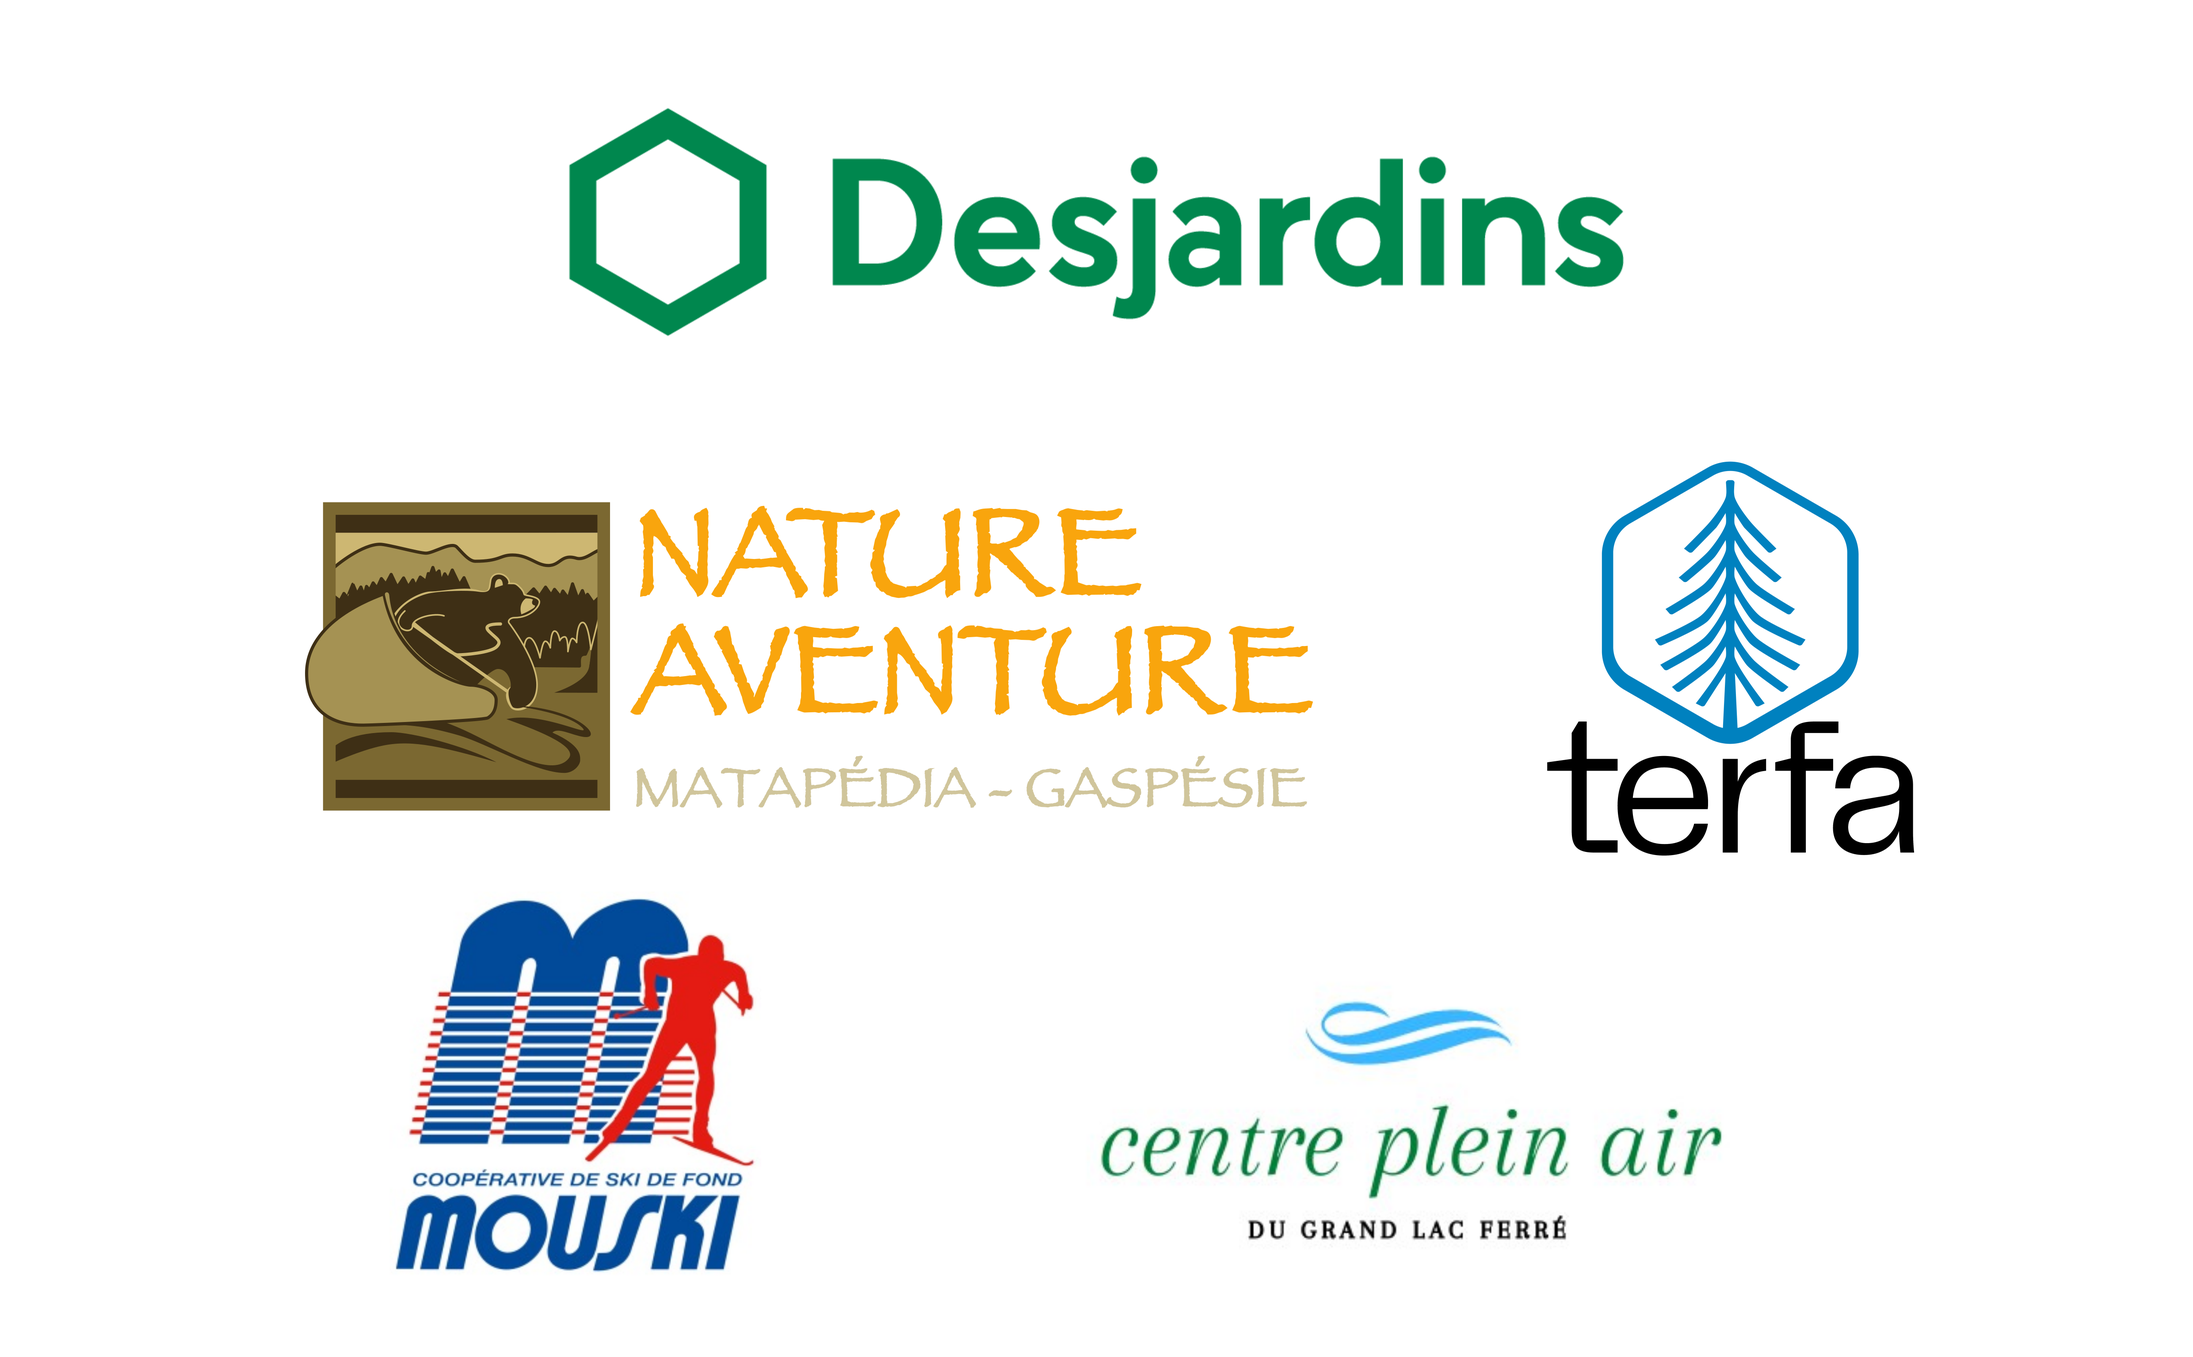
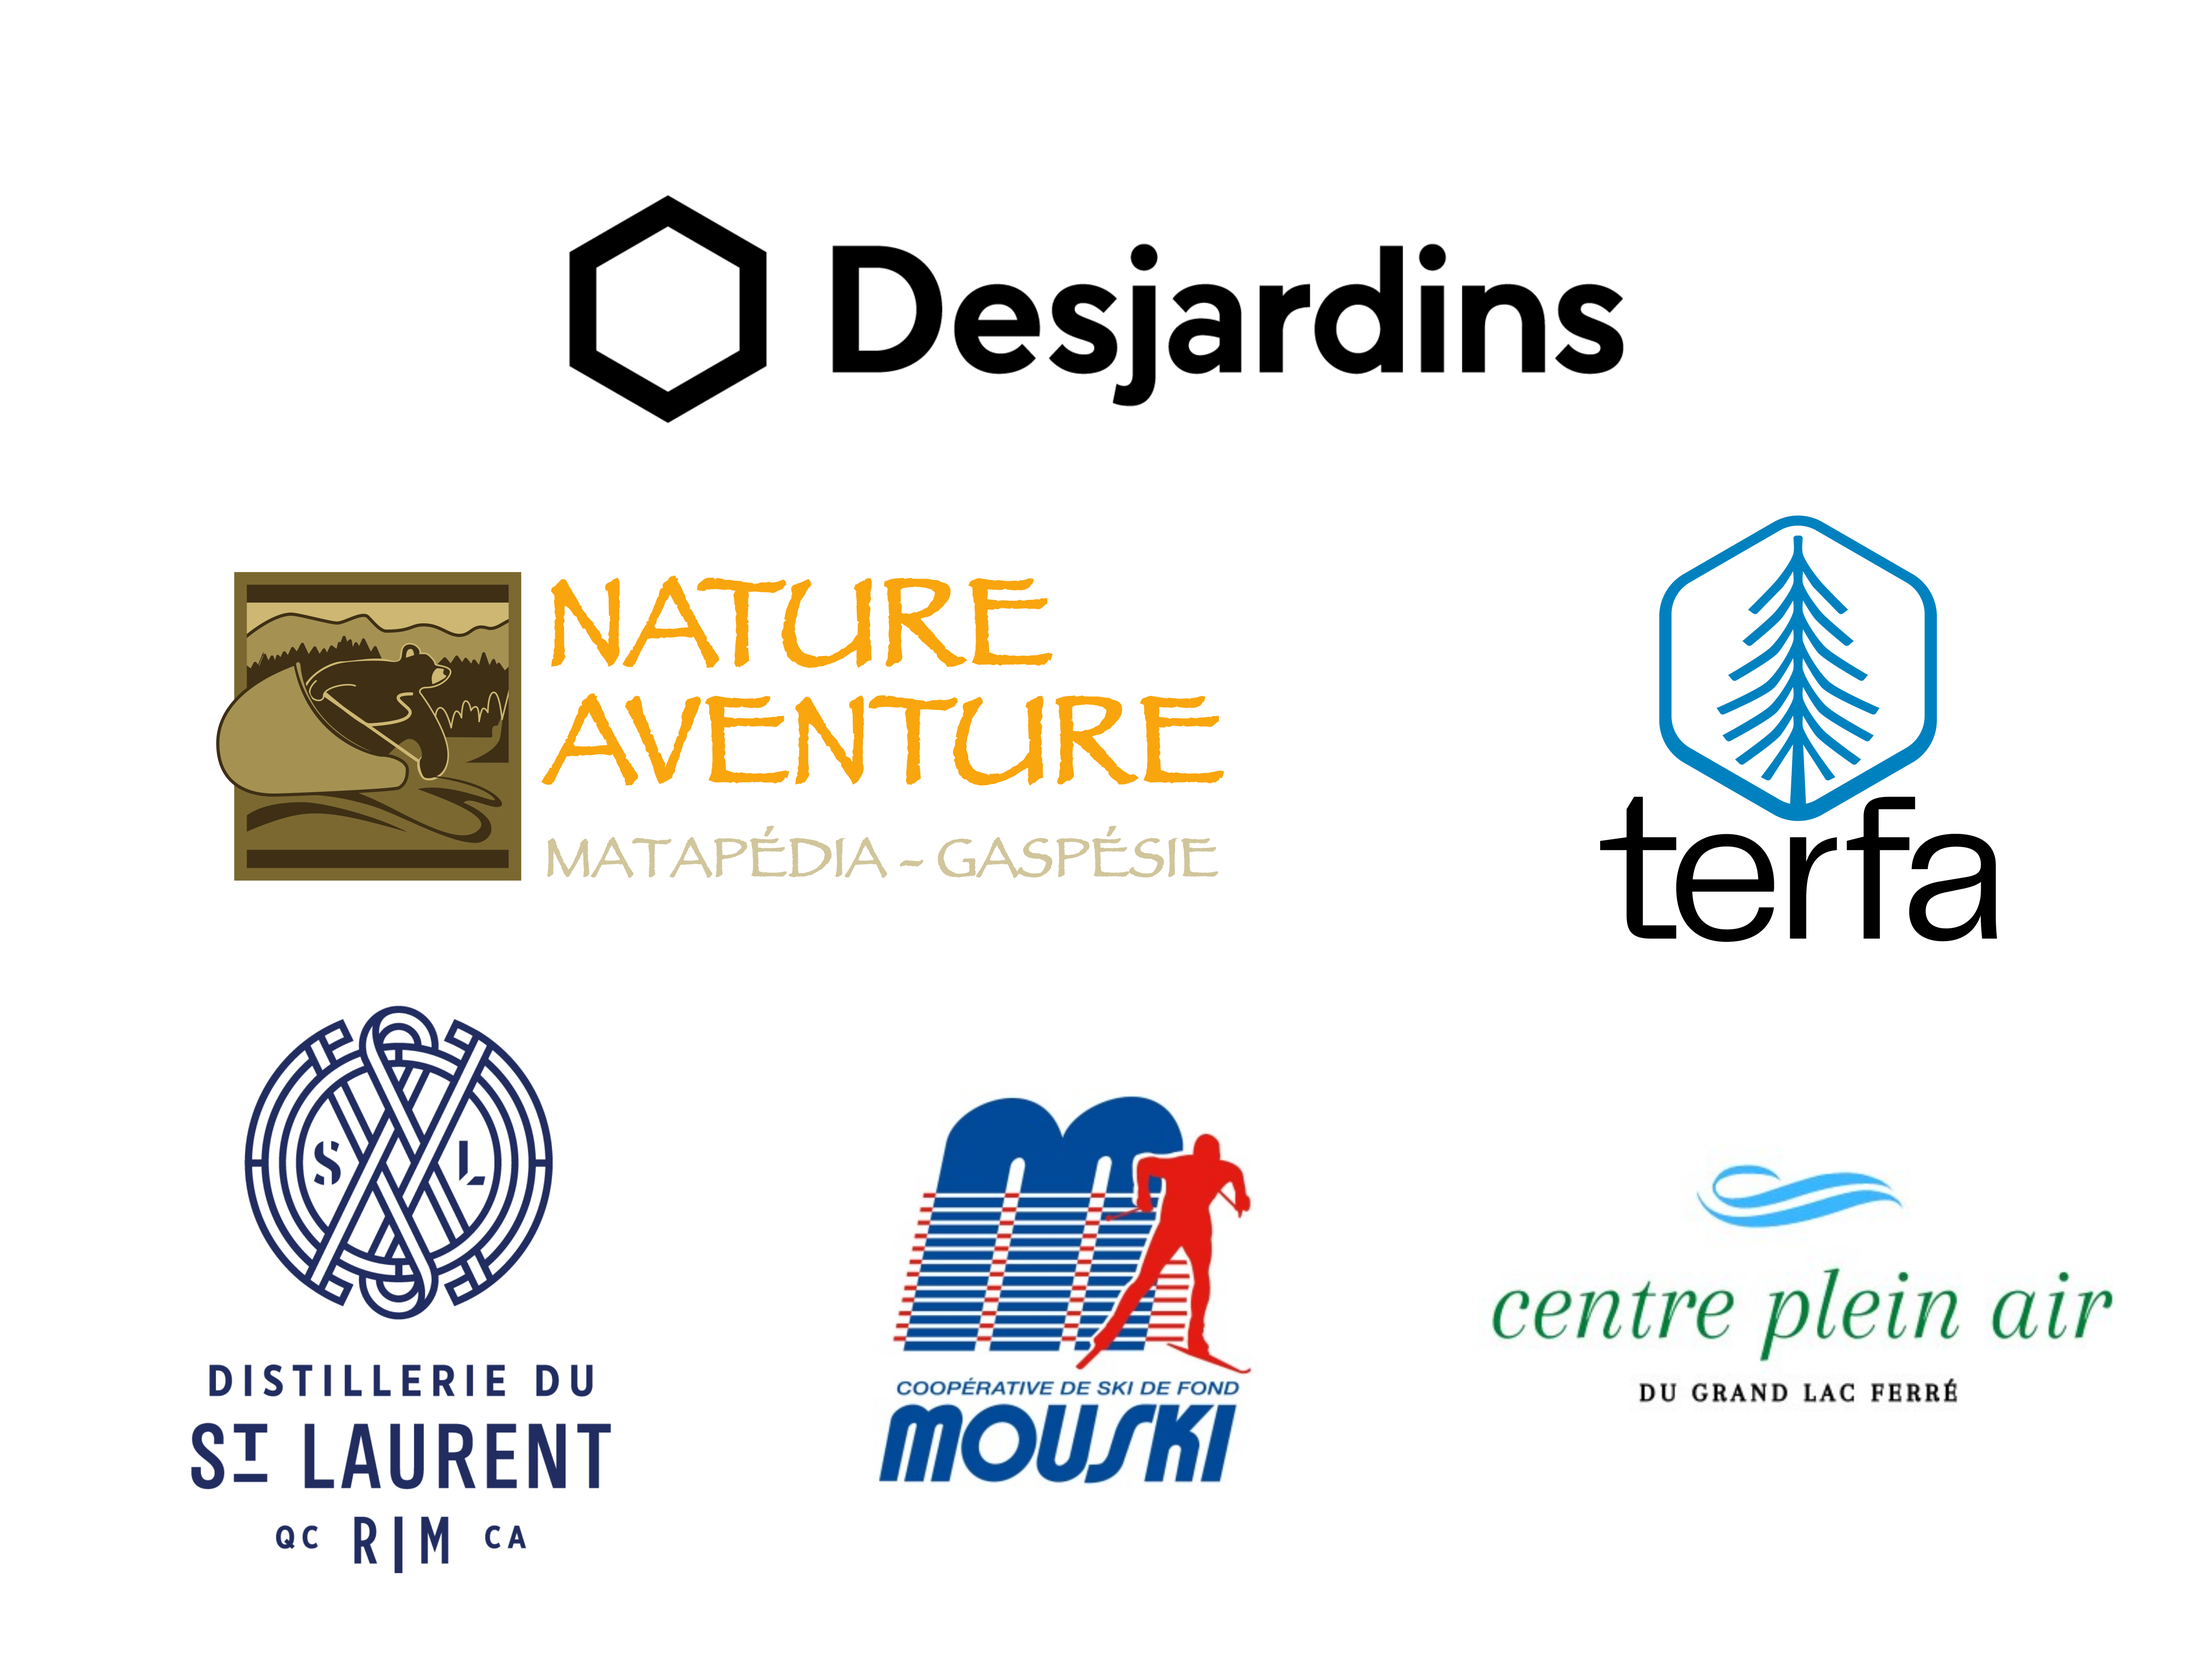
distillerie

diff --git a/exampleSite/content/french/partenaires.md b/exampleSite/content/french/partenaires.md
@@ -23,6 +23,8 @@ about:
 
   Desjardins - https://www.desjardins.com/
 
+  Distillerie du St-Laurent - https://www.distilleriedustlaurent.com/
+  
 
   Madeleine-Zoé Corbeil-Robitaille - Conception du logo du défi Jackalope! - https://mzcr.weebly.com/
 
